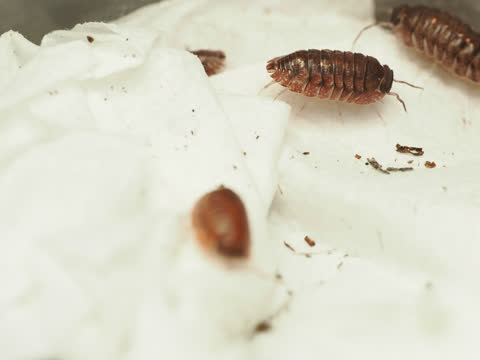
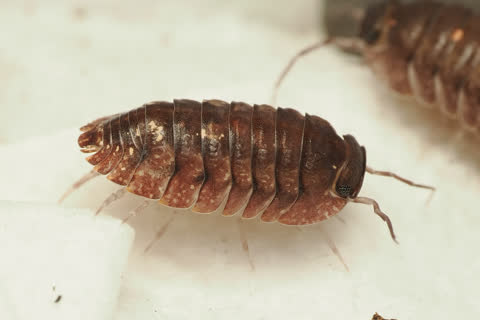
Merge crop edits export #8: Detail for Isopods on Tissue

diff --git a/index.html b/index.html
@@ -4,7 +4,7 @@
 <meta charset="UTF-8">
 <meta name="viewport" content="width=device-width, initial-scale=1.0">
 <title>Macro & Travel — Test Shoot Gallery</title>
-<link rel="stylesheet" href="style.css?v=20261031-171406">
+<link rel="stylesheet" href="style.css?v=20261031-171902">
 <link rel="stylesheet" href="https://unpkg.com/leaflet@1.9.4/dist/leaflet.css" integrity="sha256-p4NxAoJBhIIN+hmNHrzRCf9tD/miZyoHS5obTRR9BMY=" crossorigin="">
 <script src="https://unpkg.com/leaflet@1.9.4/dist/leaflet.js" integrity="sha256-20nQCchB9co0qIjJZRGuk2/Z9VM+kNiyxNV1lvTlZBo=" crossorigin=""></script>
 </head>
@@ -133,6 +133,6 @@
   </div>
 </div>
 
-<script src="script.js?v=20261031-171406"></script>
+<script src="script.js?v=20261031-171902"></script>
 </body>
 </html>

diff --git a/script.js b/script.js
@@ -2566,6 +2566,11 @@
         { label: "Detail #1", ratio: [3, 2], center: [0.4974363082839289, 0.29832291833573676], size: 0.18285887233171325 },
       ],
     },
+    '20261031_104920PA310484 huntsman.tif': {
+      details: [
+        { label: "Detail #1", ratio: [3, 2], center: [0.7035761340109166, 0.2108941702010189], size: 0.3922712709446967 },
+      ],
+    },
   };
   // Photos with no curated crop show the whole image as their Final Frame.
   const DEFAULT_FINAL_CROP = { x: 0, y: 0, w: 1, h: 1 };
